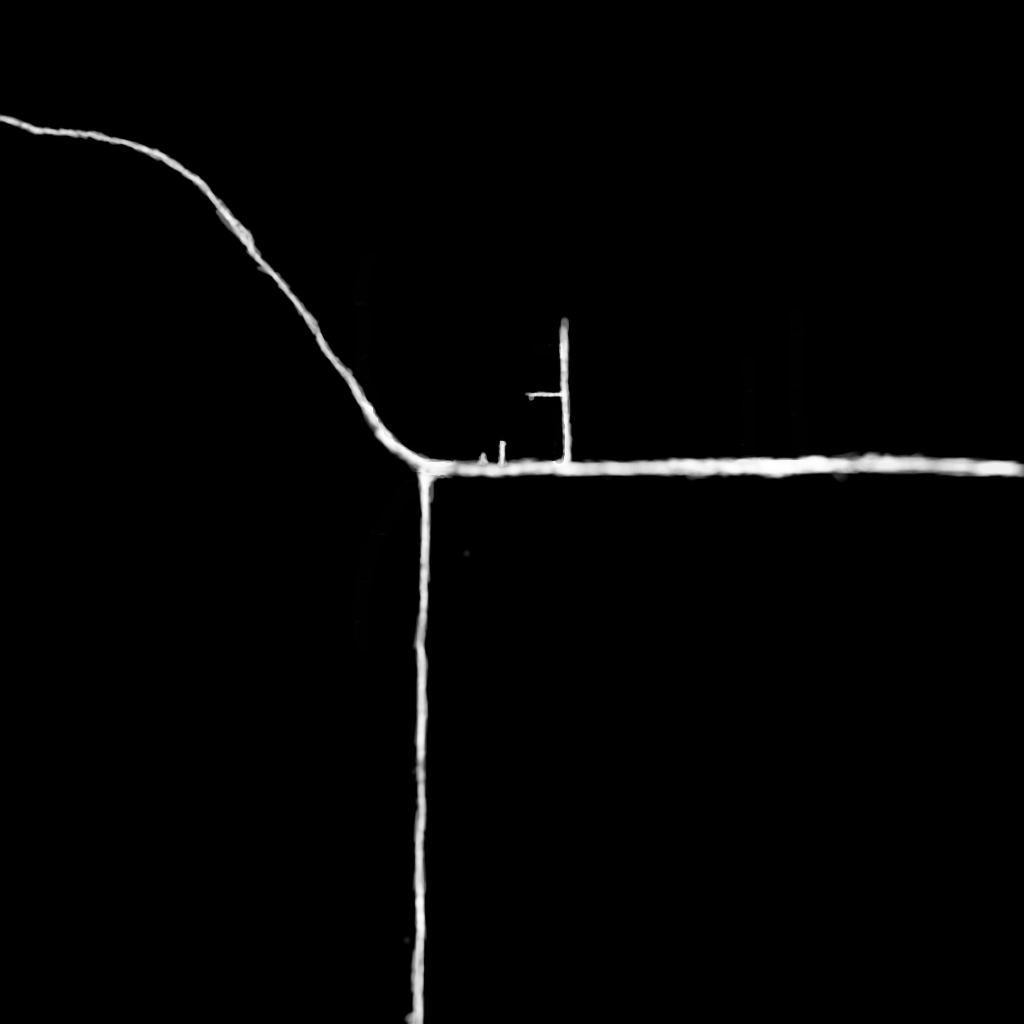
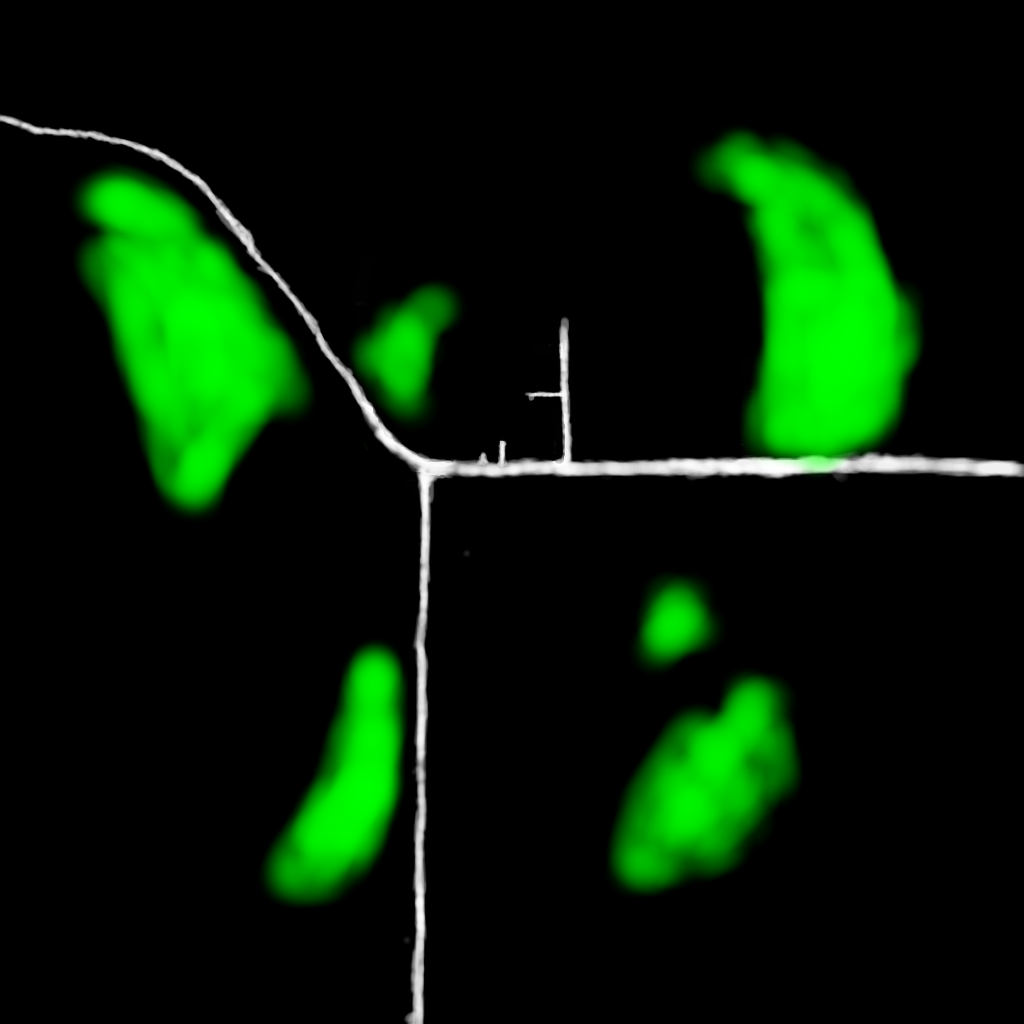
Flowers can now be placed via the green channel in the blend map

diff --git a/Engine Test/Test Game/Classes/TGWorld.cpp b/Engine Test/Test Game/Classes/TGWorld.cpp
@@ -707,21 +707,21 @@ namespace TG
 				return true;
 		}
 		
-		
-		RN::Vector3 pixel = ((position + 200.0f) / 400.0f) * 1023.0f;
-		//std::swap(pixel.x, pixel.z);
-		
-		pixel.x = roundf(1023 - pixel.x);
-		pixel.z = roundf(1023 - pixel.z);
-		
-		size_t index = static_cast<size_t>((pixel.z * 1024) + pixel.x);
-		
-		if(_blendmap[index] > 0.2f)
+		if(_blendmap[IndexForPosition(position)].r > 0.2f)
 			return true;
 		
 		return false;
 	}
 	
+	size_t World::IndexForPosition(const RN::Vector3 &position)
+	{
+		RN::Vector3 pixel = ((position + 200.0f) / 400.0f) * 1023.0f;
+		pixel.x = roundf(1023 - pixel.x);
+		pixel.z = roundf(1023 - pixel.z);
+		
+		size_t index = static_cast<size_t>((pixel.z * 1024) + pixel.x);
+		return index;
+	}
 	
 	void World::LoadLevelJSON(const std::string &file)
 	{
@@ -820,7 +820,7 @@ namespace TG
 			
 			RN::Texture::PixelData data;
 			data.alignment = 1;
-			data.format = RN::Texture::Format::R32F;
+			data.format = RN::Texture::Format::RGBA32F;
 			data.data = color;
 			
 			texture->GetData(data);
@@ -829,12 +829,12 @@ namespace TG
 			
 			for(size_t i = 0; i < texture->GetWidth() * texture->GetHeight(); i ++)
 			{
-				_blendmap.push_back(*temp);
-				temp ++;
+				_blendmap.emplace_back(temp[0], temp[1], temp[2], temp[3]);
+				temp += 4;
 			}
 			
-			_heightExtent = (groundBody->GetBoundingBox().maxExtend.y - groundBody->GetBoundingBox().minExtend.y) ;
-			_heightBase   = groundBody->GetBoundingBox().position.y+groundBody->GetBoundingBox().minExtend.y;
+			_heightExtent = (groundBody->GetBoundingBox().maxExtend.y - groundBody->GetBoundingBox().minExtend.y);
+			_heightBase   = groundBody->GetBoundingBox().position.y + groundBody->GetBoundingBox().minExtend.y;
 			
 			delete [] color;
 		}
@@ -1136,9 +1136,21 @@ namespace TG
 			
 			pos.y = GetGroundHeight(pos);
 			
+			int32 value  = dualPhaseLCG.RandomInt32Range(1, 100);
+			float factor = _blendmap[IndexForPosition(pos)].g;
+			
+			value = roundf(factor * 40) + value;
+			
+			int index = 0;
+			
+			if(value > 70)
+				index = 1;
+			if(value > 98)
+				index = 2;
+			
 			ent = new RN::Entity();
 			ent->SetFlags(ent->GetFlags() | RN::SceneNode::Flags::Static);
-			ent->SetModel(grass[dualPhaseLCG.RandomInt32Range(0, 3)]);
+			ent->SetModel(grass[index]);
 			ent->SetPosition(pos);
 			ent->SetScale(RN::Vector3(dualPhaseLCG.RandomFloatRange(0.9f, 1.3f)));
 			ent->SetRotation(RN::Vector3(dualPhaseLCG.RandomFloatRange(0, 360.0f), 0.0f, 0.0f));
@@ -1162,7 +1174,7 @@ namespace TG
 		
 #if TGWorldFeatureLights
 		_sunLight = new Sun();
-		_sunLight->ActivateShadows(RN::ShadowParameter(_camera));
+		_sunLight->ActivateShadows(RN::ShadowParameter(_camera, 2048));
 	
 /*		for(int i=0; i<10; i++)
 		{
@@ -1178,14 +1190,7 @@ namespace TG
 	
 	float World::GetGroundHeight(const RN::Vector3 &position)
 	{
-		RN::Vector3 pixel = ((position + 200.0f) / 400.0f) * 1023.0f;
-		
-		pixel.x = roundf(1023 - pixel.x);
-		pixel.z = roundf(1023 - pixel.z);
-		
-		size_t index = static_cast<size_t>((pixel.z * 1024) + pixel.x);
-		float factor = _heightMap[index];
-		
+		float factor = _heightMap[IndexForPosition(position)];
 		
 		float height = _heightBase + (_heightExtent * factor);
 		return height;

diff --git a/Engine Test/Test Game/Classes/TGWorld.h b/Engine Test/Test Game/Classes/TGWorld.h
@@ -49,6 +49,7 @@ namespace TG
 		float GetGroundHeight(const RN::Vector3 &position);
 		
 		bool PositionBlocked(const RN::Vector3 &position);
+		size_t IndexForPosition(const RN::Vector3 &position);
 		
 		DebugDrawer *_debugAttachment;
 		
@@ -63,7 +64,7 @@ namespace TG
 		
 		RN::PostProcessingPipeline *_refractPipeline;
 		
-		std::vector<float> _blendmap;
+		std::vector<RN::Color> _blendmap;
 		std::vector<float> _heightMap;
 		float _heightBase;
 		float _heightExtent;
